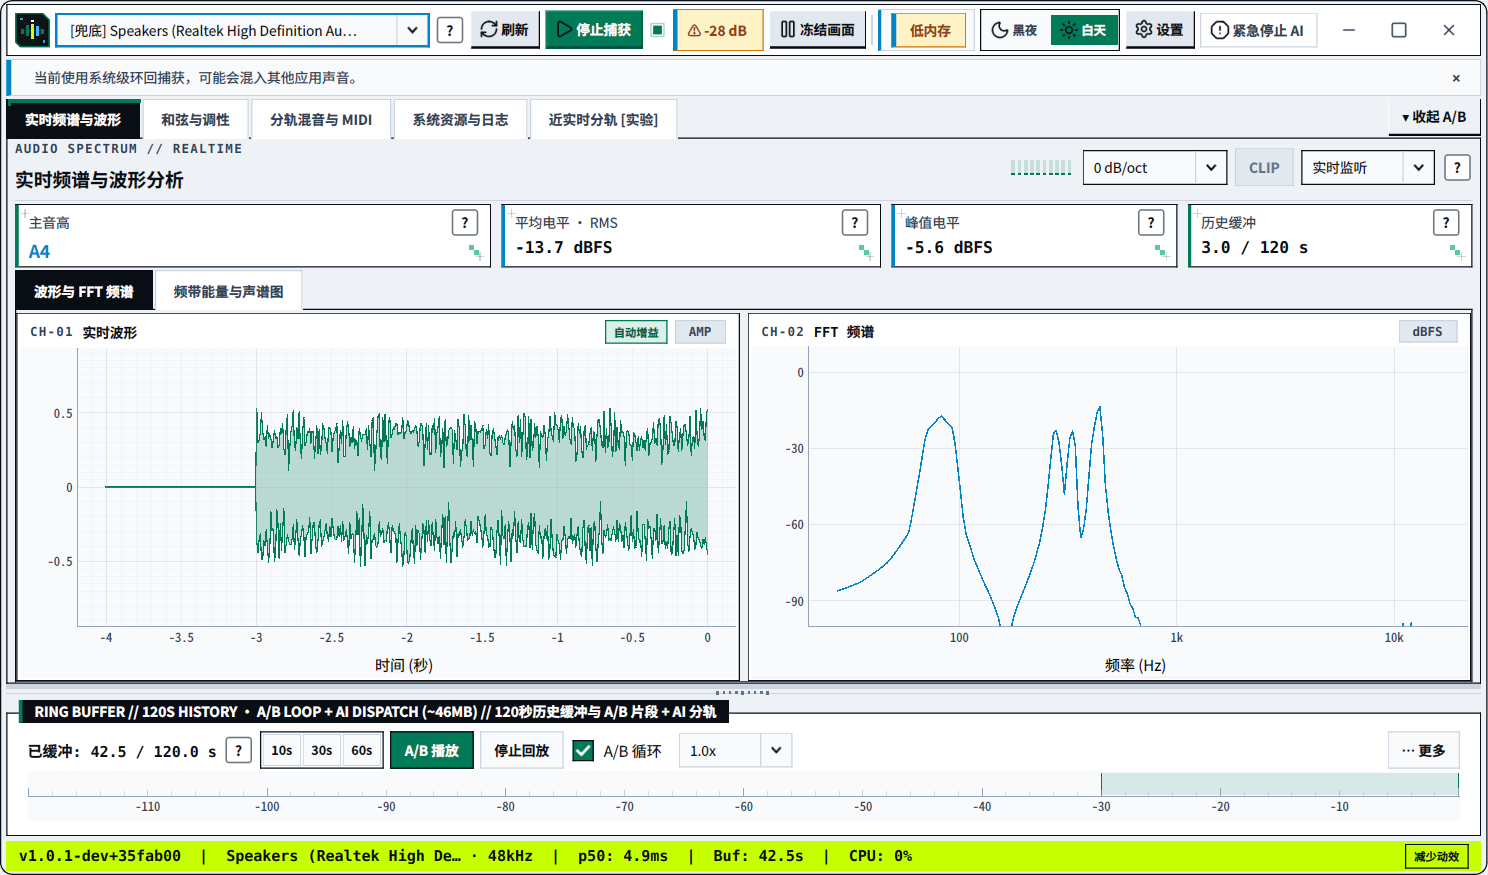
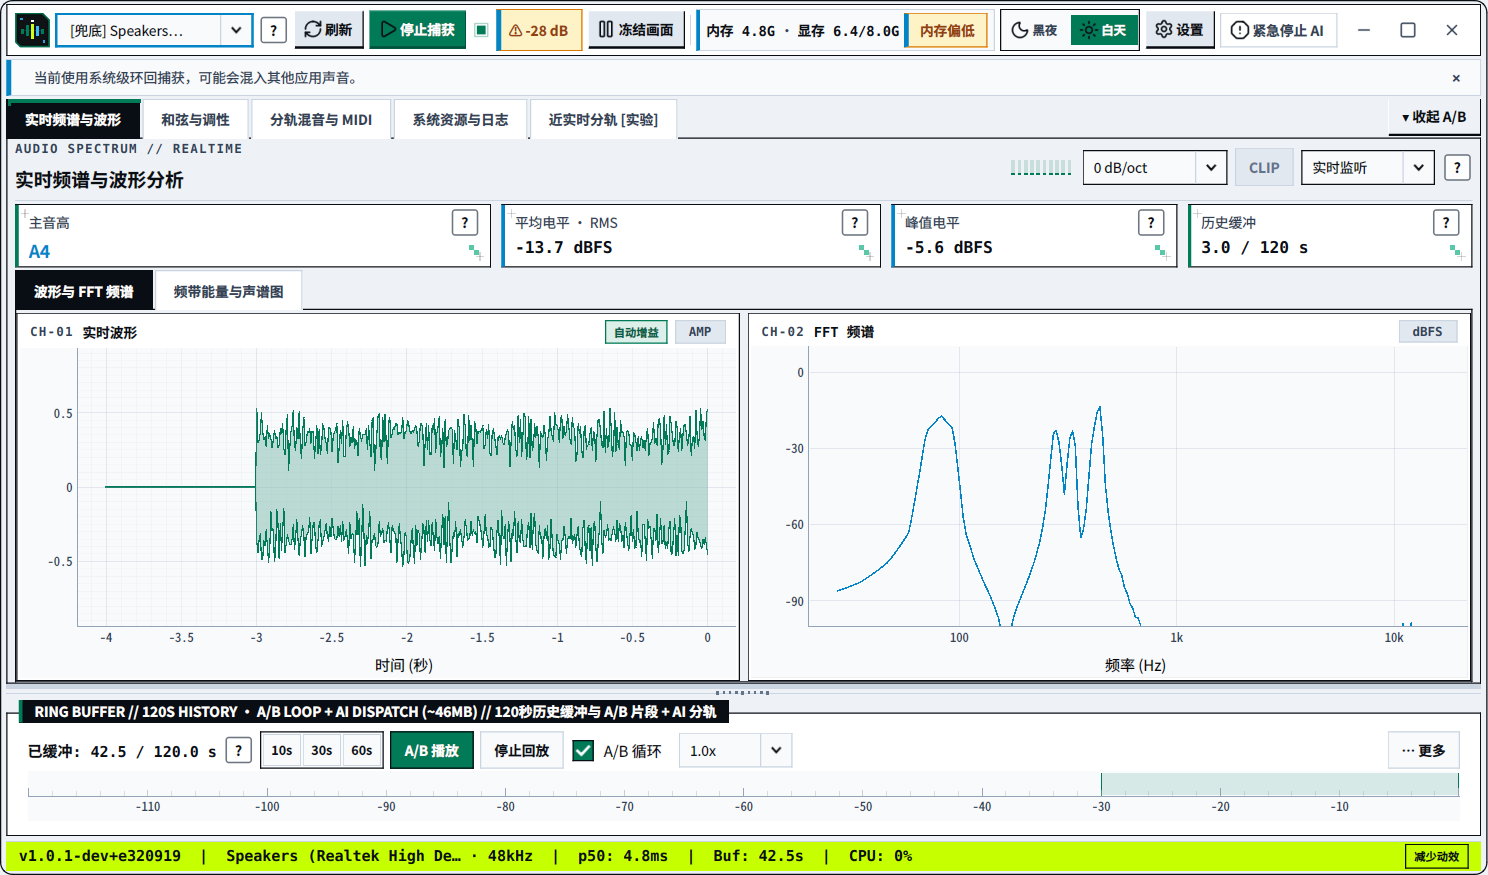
fix(ui): tighten topbar stage-1 width budget for wider Linux fonts

Changed region(s): [[0.1237, 0.0, 0.8965, 0.0617], [0.0618, 0.9566, 0.1237, 0.9874], [0.9274, 0.0309, 0.9583, 0.0617]]

diff --git a/ui/resource_widget.py b/ui/resource_widget.py
@@ -47,8 +47,8 @@ class ResourceMonitorBar(QtWidgets.QFrame):
         self._critical_ram_mb = float(critical_ram_mb)
         self._critical_vram_free_mb = float(critical_vram_free_mb)
         layout = QtWidgets.QHBoxLayout(self)
-        layout.setContentsMargins(6, 2, 6, 2)
-        layout.setSpacing(4)
+        layout.setContentsMargins(5, 2, 5, 2)
+        layout.setSpacing(3)
 
         self.ram_label = TopbarElideLabel("RAM -")
         self.ram_label.setObjectName("monoTelemetry")
@@ -68,7 +68,6 @@ class ResourceMonitorBar(QtWidgets.QFrame):
         layout.addWidget(self.ram_label)
         layout.addWidget(self._sep_lbl)
         layout.addWidget(self.vram_label)
-        layout.addSpacing(2)
         layout.addWidget(self.status_badge)
         self.setToolTip("RAM / VRAM")
         self.ram_label.setToolTip("RAM -")
@@ -79,15 +78,18 @@ class ResourceMonitorBar(QtWidgets.QFrame):
     def estimate_worst_case_width(self, compact: bool, lang: str) -> int:
         """Estimate worst-case capsule width for `compact` and `lang` using sample long telemetry strings."""
         lay = self.layout()
-        lm = lay.contentsMargins() if lay is not None else QtCore.QMargins(6, 2, 6, 2)
-        sp = max(0, lay.spacing()) if lay is not None else 4
+        lm = lay.contentsMargins() if lay is not None else QtCore.QMargins(5, 2, 5, 2)
+        sp = max(0, lay.spacing()) if lay is not None else 3
         cm = self.contentsMargins()
         frame_w = self.frameWidth() * 2
         # Left accent border in QSS is 3px + right border 1px + padding
         outer_w = max(frame_w + cm.left() + cm.right(), 4) + lm.left() + lm.right()
 
-        badge_fm = self.status_badge.fontMetrics()
-        badge_chrome = max(18, self.status_badge._horizontal_chrome())
+        badge_font = QtGui.QFont(self.status_badge.font())
+        badge_font.setBold(True)
+        badge_fm = QtGui.QFontMetrics(badge_font)
+        # Keep pill chrome constant (padding + 4px accent border + Qt text margin) so live text never shifts layout stage
+        badge_chrome = 24
         if compact:
             badge_samples = (
                 "Normal",
@@ -96,14 +98,14 @@ class ResourceMonitorBar(QtWidgets.QFrame):
                 translate_text("低内存", lang),
             )
             badge_w = max(badge_fm.horizontalAdvance(s) for s in badge_samples) + badge_chrome
-            est = outer_w + badge_w + 2
+            est = outer_w + badge_w
         else:
             ram_name = "内存" if lang == "zh" else "RAM"
             vram_name = "显存" if lang == "zh" else "VRAM"
             ram_fm = self.ram_label.fontMetrics()
             vram_fm = self.vram_label.fontMetrics()
-            ram_w = ram_fm.horizontalAdvance(f"{ram_name} 99.9G") + self.ram_label._horizontal_chrome()
-            vram_w = vram_fm.horizontalAdvance(f"{vram_name} 99.9/99.9G") + self.vram_label._horizontal_chrome()
+            ram_w = ram_fm.horizontalAdvance(f"{ram_name} 99.9G") + 2
+            vram_w = vram_fm.horizontalAdvance(f"{vram_name} 99.9/99.9G") + 2
             sep_w = self._sep_lbl.sizeHint().width()
             badge_samples = (
                 translate_text("Normal", lang),
@@ -112,7 +114,7 @@ class ResourceMonitorBar(QtWidgets.QFrame):
                 translate_text("内存偏低", lang),
             )
             badge_w = max(badge_fm.horizontalAdvance(s) for s in badge_samples) + badge_chrome
-            est = outer_w + ram_w + sep_w + vram_w + badge_w + sp * 3 + 2
+            est = outer_w + ram_w + sep_w + vram_w + badge_w + sp * 3
         if bool(compact) == self._compact_mode and lang == self._lang:
             est = max(est, self.sizeHint().width())
         return est

diff --git a/ui/main_window.py b/ui/main_window.py
@@ -808,8 +808,8 @@ class ListenScopeMainWindow(QtWidgets.QMainWindow):
         # Frameless Window Control Buttons (Minimize / Maximize-Restore / Close)
         self._win_ctrl_box = QtWidgets.QWidget()
         win_ctrl_l = QtWidgets.QHBoxLayout(self._win_ctrl_box)
-        win_ctrl_l.setContentsMargins(2, 0, 0, 0)
-        win_ctrl_l.setSpacing(2)
+        win_ctrl_l.setContentsMargins(0, 0, 0, 0)
+        win_ctrl_l.setSpacing(1)
         self.win_min_btn = WindowGlyphButton("min", "")
         self.win_min_btn.setObjectName("windowCtrlBtn")
         self.win_min_btn.setAccessibleName("最小化窗口")
@@ -1552,15 +1552,14 @@ class ListenScopeMainWindow(QtWidgets.QMainWindow):
             QtCore.QSize(cw, ch),
             btn,
         )
-        return max(cw + 12, styled.width()) + 2
+        return max(cw + 12, styled.width())
 
     def _estimate_capture_status_width(self, compact: bool, lang: str) -> int:
-        fm = self.capture_status_lbl.fontMetrics()
-        chrome = (
-            max(18, self.capture_status_lbl._horizontal_chrome())
-            if hasattr(self.capture_status_lbl, "_horizontal_chrome")
-            else 18
-        )
+        # Active capture warnings use font-weight: 700 + left 4px accent border; measure bold width with fixed chrome
+        bold_font = QtGui.QFont(self.capture_status_lbl.font())
+        bold_font.setBold(True)
+        fm = QtGui.QFontMetrics(bold_font)
+        chrome = 22
         if compact:
             samples = (
                 "⚠ -120 dB",
@@ -1572,7 +1571,7 @@ class ListenScopeMainWindow(QtWidgets.QMainWindow):
                 translate_text("[混入警告] 有信号 · -120.0 dBFS", lang),
                 translate_text("[混入警告] 静音 · -120.0 dBFS", lang),
             )
-        est = max(fm.horizontalAdvance(s) for s in samples) + chrome + 2
+        est = max(fm.horizontalAdvance(s) for s in samples) + chrome
         if bool(compact) == getattr(self, "_capture_compact_mode", False):
             est = max(est, self.capture_status_lbl.sizeHint().width())
         return est
@@ -1682,7 +1681,7 @@ class ListenScopeMainWindow(QtWidgets.QMainWindow):
                 cap_icon_only: bool,
                 estop_short: bool,
             ) -> int:
-                req = top_m.left() + top_m.right() + cmd_m.left() + cmd_m.right() + 4
+                req = top_m.left() + top_m.right() + cmd_m.left() + cmd_m.right() + 2
                 vis_items = 0
                 for i in range(self._topbar_cmd_row.count()):
                     wdg = self._topbar_cmd_row.itemAt(i).widget()

diff --git a/ui/acid_style.py b/ui/acid_style.py
@@ -524,8 +524,9 @@ class TopbarElideLabel(QtWidgets.QLabel):
                 return
             w = self.width()
             cr_w = self.contentsRect().width()
-            # Skip eliding before the widget has a real layout geometry
-            if w <= 0 or cr_w <= 0:
+            # Skip eliding before the widget has a real layout geometry or while parent window is unshown
+            in_unshown_window = self.parentWidget() is not None and not self.window().isVisible()
+            if w <= 0 or cr_w <= 0 or in_unshown_window:
                 if super().text() != full:
                     super().setText(full)
                 return
@@ -567,6 +568,10 @@ class TopbarElideLabel(QtWidgets.QLabel):
 
     def resizeEvent(self, event: QtGui.QResizeEvent) -> None:  # type: ignore[override]
         super().resizeEvent(event)
+        self._apply_elide()
+
+    def showEvent(self, event: QtGui.QShowEvent) -> None:  # type: ignore[override]
+        super().showEvent(event)
         self._apply_elide()
 
     def changeEvent(self, event: QtCore.QEvent) -> None:  # type: ignore[override]
@@ -3288,8 +3293,8 @@ QPushButton#windowCtrlBtn {{
     border: 1px solid transparent;
     border-radius: 0px;
     padding: 0px;
-    min-width: 36px;
-    max-width: 36px;
+    min-width: 32px;
+    max-width: 32px;
     min-height: 32px;
     max-height: 32px;
     font-family: {mono_family};
@@ -3307,8 +3312,8 @@ QPushButton#windowCloseBtn {{
     border: 1px solid transparent;
     border-radius: 0px;
     padding: 0px;
-    min-width: 36px;
-    max-width: 36px;
+    min-width: 32px;
+    max-width: 32px;
     min-height: 32px;
     max-height: 32px;
     font-family: {mono_family};
@@ -3372,6 +3377,10 @@ QFrame#acidTopbar QPushButton#captureBtn,
 QFrame#acidTopbar QPushButton#freezeBtn,
 QFrame#acidTopbar QPushButton#settingsBtn {{
     padding: 4px 6px;
+}}
+QFrame#acidTopbar QLabel#captureStatus,
+QFrame#acidTopbar QLabel#statusBadge {{
+    padding: 2px 6px;
 }}
 QFrame#acidDivider {{
     background-color: {p.border};

diff --git a/ui/appearance.py b/ui/appearance.py
@@ -239,8 +239,8 @@ QPushButton#windowCtrlBtn {{
     border: 1px solid transparent;
     border-radius: 4px;
     padding: 0px;
-    min-width: 36px;
-    max-width: 36px;
+    min-width: 32px;
+    max-width: 32px;
     min-height: 32px;
     max-height: 32px;
     font-weight: 700;
@@ -256,8 +256,8 @@ QPushButton#windowCloseBtn {{
     border: 1px solid transparent;
     border-radius: 4px;
     padding: 0px;
-    min-width: 36px;
-    max-width: 36px;
+    min-width: 32px;
+    max-width: 32px;
     min-height: 32px;
     max-height: 32px;
     font-weight: 700;
